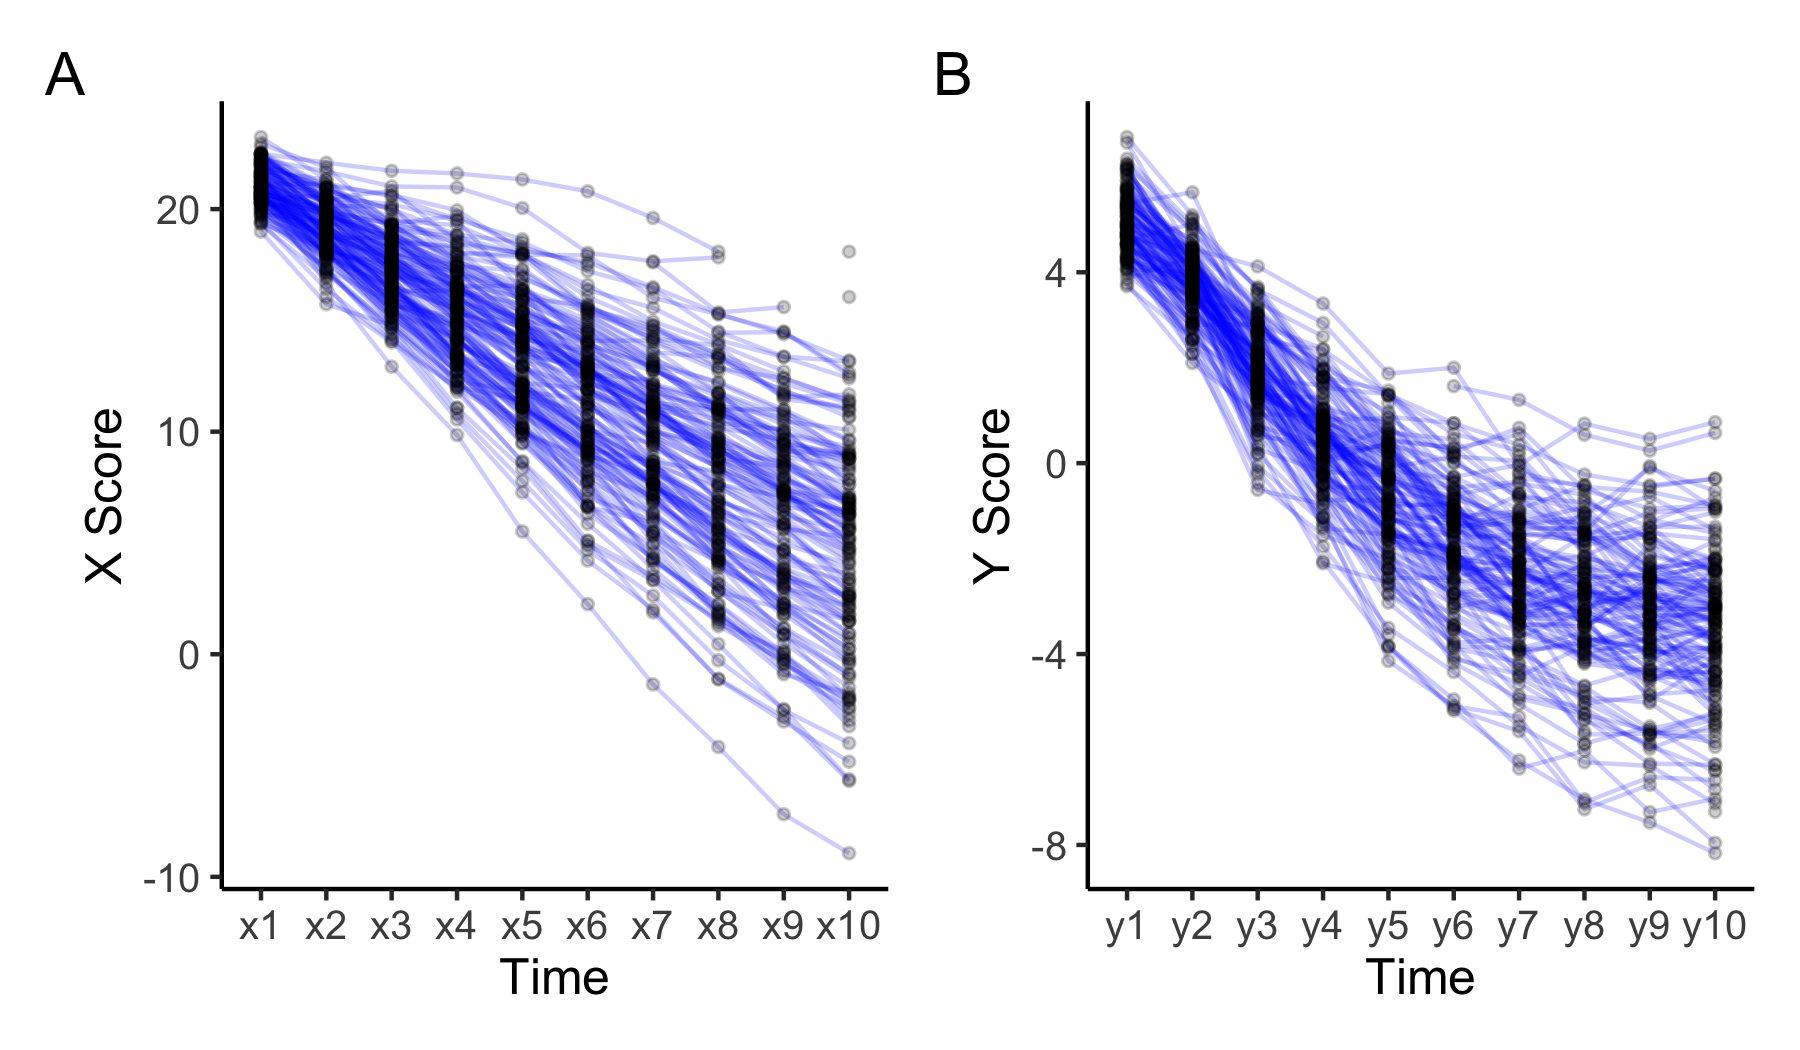
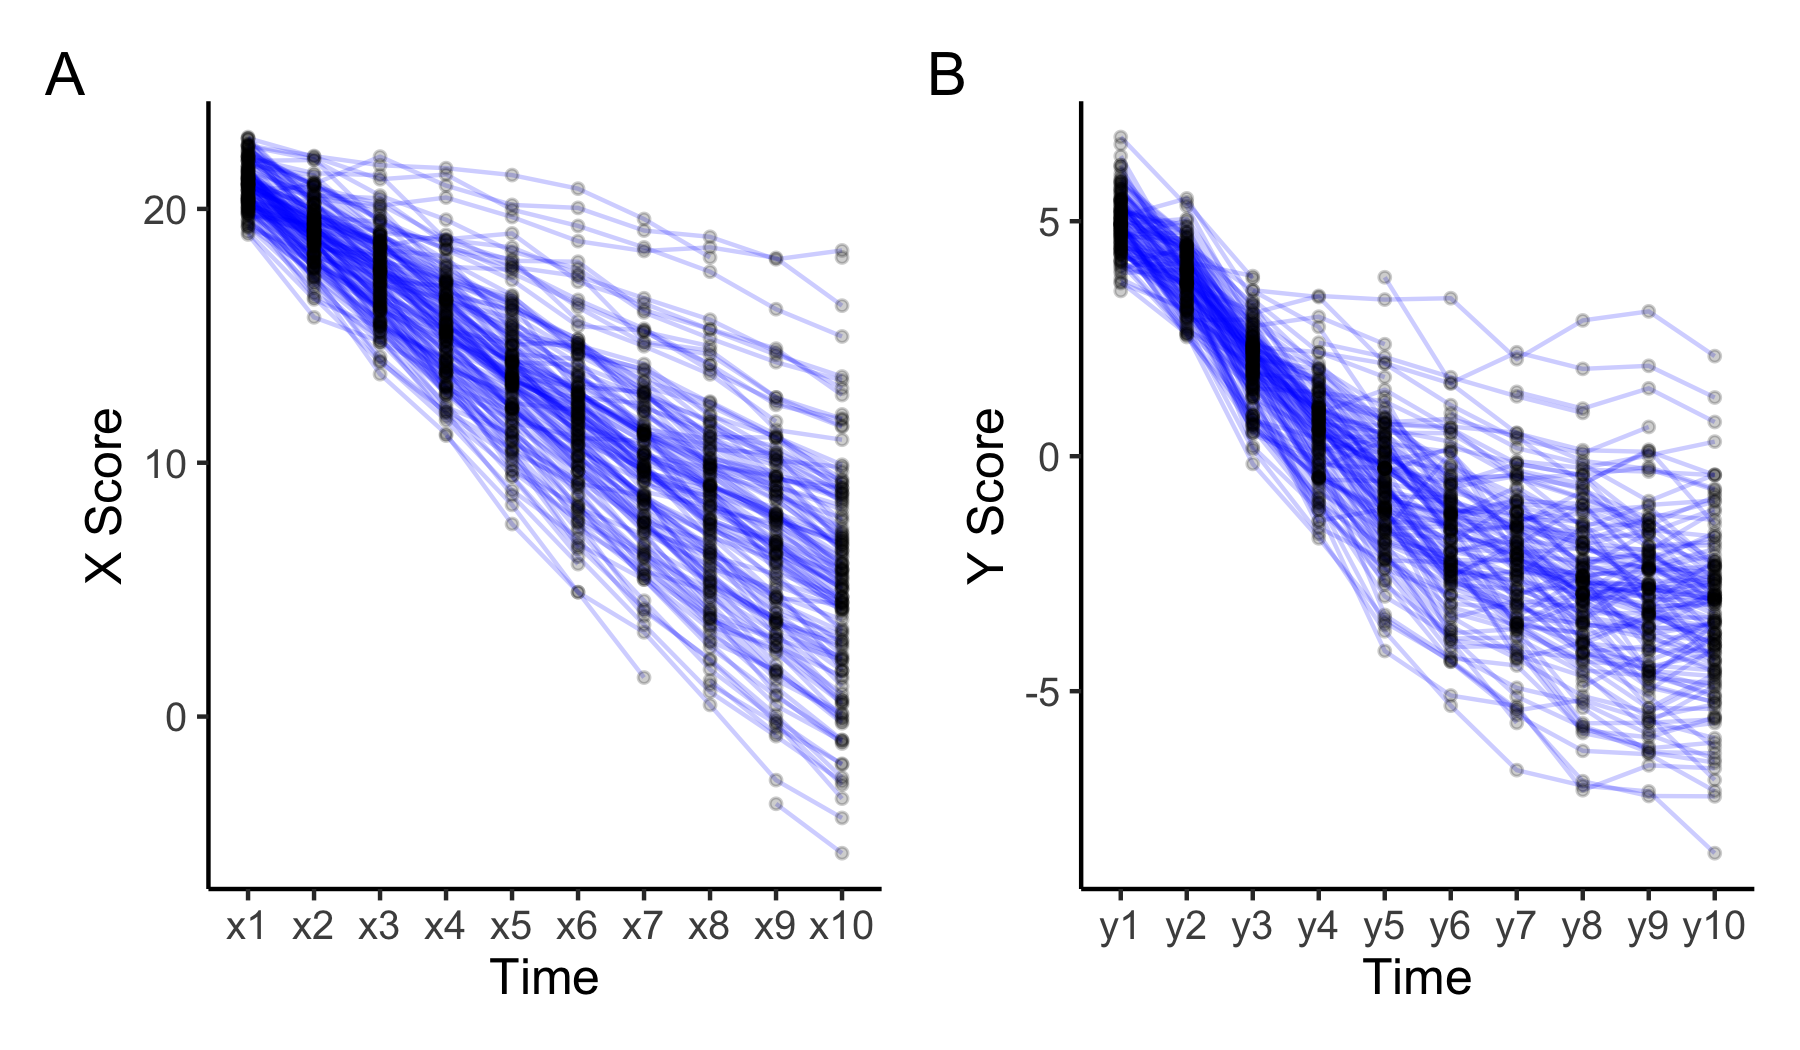
add cran comments, add news, update readme

diff --git a/README.md b/README.md
@@ -3,12 +3,13 @@
 
 # lcsm: An R Package for Latent Change Score Modeling
 
-[![last-change](https://img.shields.io/badge/Last%20change-2020--02--17-brightgreen.svg)](https://github.com/milanwiedemann/lcsm)
+<!-- badges: start -->
+
 [![Travis build
-status](https://travis-ci.org/milanwiedemann/lcsm.svg?branch=master)](https://travis-ci.org/milanwiedemann/lcsm)
-[![Build
-status](https://ci.appveyor.com/api/projects/status/swwgfqdufr5xmxf2?svg=true)](https://ci.appveyor.com/project/milanwiedemann/lcsm)
-[![lcsm-version](https://img.shields.io/badge/Version-0.0.6-brightgreen.svg)](https://github.com/milanwiedemann/lcsm)
+status](https://travis-ci.com/milanwiedemann/lcsm.svg?branch=master)](https://travis-ci.com/milanwiedemann/lcsm)
+[![AppVeyor build
+status](https://ci.appveyor.com/api/projects/status/github/milanwiedemann/lcsm?branch=master&svg=true)](https://ci.appveyor.com/project/milanwiedemann/lcsm)
+<!-- badges: end -->
 
 This package offers some helper functions to specify and analyse
 univariate and bivariate latent change score models (LCSM) using
@@ -17,13 +18,13 @@ univariate and bivariate latent change score models (LCSM) using
 method see for example McArdle
 ([2009](http://www.annualreviews.org/doi/10.1146/annurev.psych.60.110707.163612)),
 Ghisletta ([2012](https://doi.org/10.1080/10705511.2012.713275)), Grimm
-et al. ([2012](https://doi.org/10.1080/10705511.2012.659627)), and
+et al. ([2012](https://doi.org/10.1080/10705511.2012.659627)), and
 Grimm, Ram & Estabrook
 ([2017](https://www.guilford.com/books/Growth-Modeling/Grimm-Ram-Estabrook/9781462526062)).
 
-I started working on this project to better understand how latent change
-score modeling works. This package combines the strengths of other R
-packages like [lavaan](http://lavaan.ugent.be/),
+I started working on this project to teach me how latent change score
+modeling works and how it can be done in R. This package combines the
+strengths of other R packages like [lavaan](http://lavaan.ugent.be/),
 [broom](https://broom.tidyverse.org), and
 [semPlot](https://cran.r-project.org/web/packages/semPlot/index.html) by
 generating lavaan syntax that helps these packages work together.
@@ -110,10 +111,10 @@ plot_y <- plot_trajectories(data = data_bi_lcsm,
 # Arrange plots next to each other using patchwork
 library(patchwork)
 plot_x + plot_y + plot_annotation(tag_levels = 'A')
-#> Warning: Removed 22 row(s) containing missing values (geom_path).
-#> Warning: Removed 88 rows containing missing values (geom_point).
-#> Warning: Removed 36 row(s) containing missing values (geom_path).
-#> Warning: Removed 149 rows containing missing values (geom_point).
+#> Warning: Removed 18 row(s) containing missing values (geom_path).
+#> Warning: Removed 85 rows containing missing values (geom_point).
+#> Warning: Removed 37 row(s) containing missing values (geom_path).
+#> Warning: Removed 172 rows containing missing values (geom_point).
 ```
 
 <img src="man/figures/README-unnamed-chunk-3-1.png" width="100%" />
@@ -243,24 +244,23 @@ fit_uni_lcsm(data = data_uni_lcsm,
              model = list(alpha_constant = TRUE, 
                           beta = FALSE, 
                           phi = TRUE))
-#> lavaan 0.6-5 ended normally after 66 iterations
+#> lavaan 0.6-6 ended normally after 66 iterations
 #> 
 #>   Estimator                                         ML
 #>   Optimization method                           NLMINB
 #>   Number of free parameters                         23
 #>   Number of equality constraints                    16
-#>   Row rank of the constraints matrix                16
 #>                                                       
 #>   Number of observations                           500
 #>   Number of missing patterns                       273
 #>                                                       
 #> Model Test User Model:
-#>                                               Standard      Robust
-#>   Test Statistic                                75.389      74.400
-#>   Degrees of freedom                                58          58
-#>   P-value (Chi-square)                           0.062       0.072
-#>   Scaling correction factor                                  1.013
-#>     for the Yuan-Bentler correction (Mplus variant)
+#>                                                Standard      Robust
+#>   Test Statistic                                 75.389      74.400
+#>   Degrees of freedom                                 58          58
+#>   P-value (Chi-square)                            0.062       0.072
+#>   Scaling correction factor                                   1.013
+#>        Yuan-Bentler correction (Mplus variant)
 ```
 
 It is also possible to show the lavaan syntax that was created to fit
@@ -415,8 +415,7 @@ cat(syntax)
 The function `fit_bi_lcsm()` allowes to specify two univariate LCS
 models using the arguments `model_x` and `model_x`. These two constructs
 can then be connected using the `coupling` argument. More details can be
-found in the help files
-`help(fit_bi_lcsm)`.
+found in the help files `help(fit_bi_lcsm)`.
 
 | Coupling specification   | Description                                           |
 | :----------------------- | :---------------------------------------------------- |
@@ -445,24 +444,23 @@ fit_bi_lcsm(data = data_bi_lcsm,
                            phi = TRUE),
             coupling = list(delta_lag_xy = TRUE, 
                             xi_lag_yx = TRUE))
-#> lavaan 0.6-5 ended normally after 118 iterations
+#> lavaan 0.6-6 ended normally after 118 iterations
 #> 
 #>   Estimator                                         ML
 #>   Optimization method                           NLMINB
 #>   Number of free parameters                         87
 #>   Number of equality constraints                    65
-#>   Row rank of the constraints matrix                65
 #>                                                       
 #>   Number of observations                           500
 #>   Number of missing patterns                       210
 #>                                                       
 #> Model Test User Model:
-#>                                               Standard      Robust
-#>   Test Statistic                               191.851     193.021
-#>   Degrees of freedom                               208         208
-#>   P-value (Chi-square)                           0.782       0.764
-#>   Scaling correction factor                                  0.994
-#>     for the Yuan-Bentler correction (Mplus variant)
+#>                                                Standard      Robust
+#>   Test Statistic                                191.851     193.021
+#>   Degrees of freedom                                208         208
+#>   P-value (Chi-square)                            0.782       0.764
+#>   Scaling correction factor                                   0.994
+#>        Yuan-Bentler correction (Mplus variant)
 ```
 
 ### Extract fit statistics and parmeters
@@ -665,16 +663,16 @@ sim_uni_lcsm(timepoints = 5,
 #> # A tibble: 1,000 x 6
 #>       id    x1    x2    x3    x4    x5
 #>    <int> <dbl> <dbl> <dbl> <dbl> <dbl>
-#>  1     1  NA    21.4  NA    24.3  25.0
-#>  2     2  NA    NA    19.9  19.0  NA  
-#>  3     3  20.3  NA    NA    NA    19.0
-#>  4     4  NA    20.3  NA    18.1  NA  
-#>  5     5  19.2  19.1  18.0  16.9  16.7
-#>  6     6  22.3  23.5  NA    29.0  NA  
-#>  7     7  NA    NA    23.1  23.1  NA  
-#>  8     8  21.3  22.5  22.5  23.7  25.0
-#>  9     9  NA    22.6  21.6  21.3  19.1
-#> 10    10  NA    21.8  21.0  22.5  22.0
+#>  1     1  21.8  20.4  18.0  15.3  NA  
+#>  2     2  22.5  22.7  NA    19.0  NA  
+#>  3     3  22.3  21.4  20.5  18.8  18.5
+#>  4     4  NA    NA    21.9  25.0  25.9
+#>  5     5  18.8  18.4  18.9  18.8  NA  
+#>  6     6  20.0  19.1  17.1  15.5  13.8
+#>  7     7  20.1  18.6  16.9  NA    NA  
+#>  8     8  22.3  23.2  22.6  23.6  25.3
+#>  9     9  18.7  NA    19.3  19.5  19.8
+#> 10    10  NA    22.3  NA    22.2  22.4
 #> # … with 990 more rows
 ```
 
@@ -888,8 +886,7 @@ simsyntax <- sim_bi_lcsm(timepoints = 5,
 ### Univariate LCS models
 
 Depending on the specified model, the following parameters can be
-estimated for **univariate** LCS
-models:
+estimated for **univariate** LCS models:
 
 | Parameter    | Description                                                    |
 | :----------- | :------------------------------------------------------------- |
@@ -910,8 +907,7 @@ models:
 
 For bivariate LCS models, estimated parameters can be categorised into
 (1) **Construct X**, (2) **Construct Y**, and (3) **Coupling between X
-and
-Y**.
+and Y**.
 
 | Parameter           | Description                                                            |
 | :------------------ | :--------------------------------------------------------------------- |

diff --git a/cran-comments.md b/cran-comments.md
@@ -1,0 +1,29 @@
+# Test environments
+## local 
+* macOS Mojave 10.15.4
+* R version 4.0.0 (2020-04-24) -- "Arbor Day"
+
+## R CMD check results
+* There were no ERRORs or WARNINGs, or NOTES 
+
+## travis-ci
+* R version 4.0.0 (2020-04-24)
+* Platform: x86_64-pc-linux-gnu (64-bit)
+* Running under: Ubuntu 16.04.6 LTS
+* passing
+
+## ci.appveyor
+* R version 4.0.0 Patched (2020-05-18 r78487)
+* Platform: x86_64-w64-mingw32/x64 (64-bit)
+* Running under: Windows Server 2012 R2 x64 (build 9600)
+* passing
+
+## win-builder R-release
+* using R version 4.0.0 (2020-04-24)
+* using platform: x86_64-w64-mingw32 (64-bit)
+* 1 Note
+
+## win-builder R-devel
+* using R version 4.0.0 (2020-04-24)
+* using platform: x86_64-w64-mingw32 (64-bit)
+* 1 Note

diff --git a/R/NEWS.md b/R/NEWS.md
@@ -1,0 +1,3 @@
+# lcsm 0.0.9
+
+- First CRAN submission.
